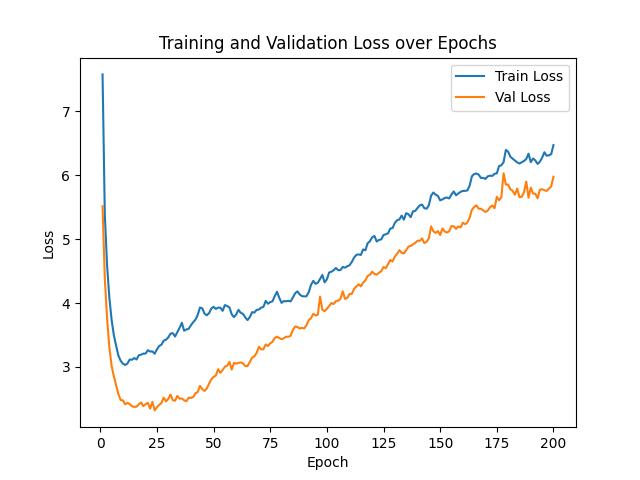
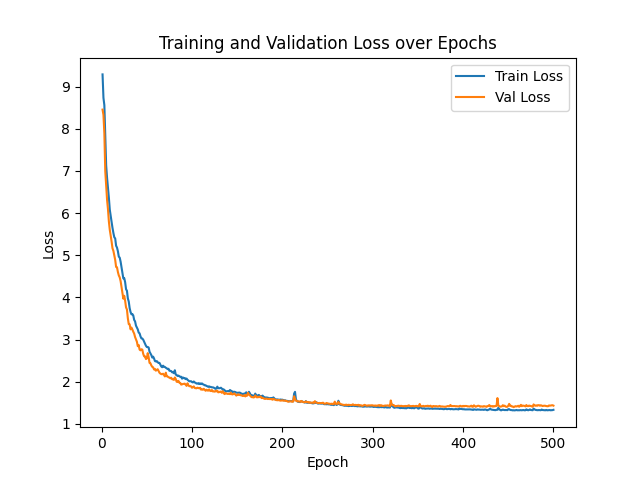
try on vqvae

diff --git a/networks/roomlayout/quant.py b/networks/roomlayout/quant.py
@@ -10,10 +10,10 @@ class TokenSequentializer(nn.Module):
         Implemented with residual-structured blocks.
     '''
     def __init__(self,
-        embed_dim = 128, vocab_size = 512, beta = 0.25,
+        embed_dim = 128, vocab_size = 512, beta = 0.25, ema_decay = 0.99, eps = 1e-5,
         resi_ratio = 0.5,
         share_phi = 1,  # 0: non-shared, 1: shared, 2: partially-shared 
-        use_prior_cluster = False, using_znorm = False,
+        use_prior_cluster = False, using_znorm = False, training = True,
         t_scales = [1, 2, 4, 7, 11]   # + N (last scale is the full resolution)
     ):
         super().__init__()
@@ -39,9 +39,17 @@ class TokenSequentializer(nn.Module):
         self.register_buffer('ema_vocab_hit', torch.full((len(t_scales) + 1, vocab_size),fill_value=0.0))
         self.record_hit = 0
         self.embedding = nn.Embedding(vocab_size, embed_dim)
+        self.register_buffer('cluster_size', torch.zeros(vocab_size))
+        self.register_buffer('embedding_avg', torch.zeros(vocab_size, embed_dim))
+
+        self.embedding.weight.data.normal_()
         self.using_znorm = using_znorm
         self.beta = beta
 
+        self.ema_decay = ema_decay
+        self.eps = eps
+
+        self.training = training
 
         if self.use_prior_cluster:
             # TODO: prior cluster info inject there, explicitly
@@ -50,6 +58,7 @@ class TokenSequentializer(nn.Module):
             # pre-define perceptual length scales
             # model learn itself how to use different-scale token map to describe a scene
             self.t_scales = t_scales
+
 
     # ---------------------- training encoder-decoder only --------------------------#
     def forward(self, feature_map : torch.Tensor, padding_mask = None) -> torch.Tensor:
@@ -84,13 +93,30 @@ class TokenSequentializer(nn.Module):
             for stage_i in range(SN + 1):
                 token_len = self.t_scales[stage_i] if stage_i < SN else N
                 f_down = self.down_resampler(f_rest, M=token_len, padding_mask = mask_cat).reshape(-1,D) if stage_i < SN else f_rest.reshape(-1,D) # B x token_len x D
-                f_down = F.normalize(f_down, dim=-1)
-                idx_N = torch.argmax(f_down @ F.normalize(self.embedding.weight.T, dim=0), dim=1)  # n = B x token_len
+
+                # self.console_log_distribution(f_down)
+
+                dist = (
+                    f_down.pow(2).sum(dim=1, keepdim=True)
+                    - 2 * f_down @ self.embedding.weight.T
+                    + self.embedding.weight.pow(2).sum(dim=1)
+                )  # (B*L, V)
+
+                idx_N = torch.argmin(dist, dim=1)
+                # f_down = F.normalize(f_down, dim=-1)
+
+
+                # idx_N = torch.argmax(f_down @ F.normalize(self.embedding.weight.T, dim=0), dim=1)  # n = B x token_len
+
+                if self.training:
+                    self._ema_update(f_down, idx_N)
 
                 hit_V = idx_N.bincount(minlength=self.vocab_size).float()  # vocab_size ## not user yet
                 
                 idx_BL = idx_N.view(B, token_len)  # B x token_len
                 f_down_hat = self.embedding(idx_BL)  # B x token_len x D
+
+                # self.console_log_distribution(f_down_hat, after_cluster=True)
 
                 f_up = self.up_resampler(f_down_hat, M=N) if stage_i < SN else f_down_hat  # B x N x D
                 # f_down = F.interpolate(f_rest.transpose(1,2), size=token_len, mode = 'linear', align_corners=True).transpose(1,2)  # B x token_len x D
@@ -103,16 +129,65 @@ class TokenSequentializer(nn.Module):
                 f_hat = (f_hat + f_resi).masked_fill(mask_cat.unsqueeze(-1), 0.0)
 
                 # VQ loss
-                mean_vq_loss += F.mse_loss(f_hat.data, feature_map).mul_(self.beta) + F.mse_loss(f_hat, f_no_grad)
+                
+                vocab_hit_V += hit_V
+                mean_vq_loss += F.mse_loss(f_hat.data, feature_map).mul_(self.beta)
             
             mean_vq_loss = mean_vq_loss / (SN + 1)
             f_hat = (f_hat.data-f_no_grad).add_(feature_map)  # straight-through trick
 
             
         
-            return f_hat, mean_vq_loss
+            return f_hat, mean_vq_loss, vocab_hit_V
             
     
+    def _ema_update(self, z_e, idx_N: torch.Tensor):
+        encodings = F.one_hot(idx_N, self.vocab_size).float() # n x V 
+        n_k = encodings.sum(0) # V 
+        m_k = encodings.T @ z_e # V x D
+
+        with torch.no_grad():
+            self.cluster_size.mul_(self.ema_decay).add_(n_k, alpha=1 - self.ema_decay)
+            self.embedding_avg.mul_(self.ema_decay).add_(m_k, alpha=1 - self.ema_decay)
+
+        n = self.cluster_size.sum()
+        cluster_size = ((self.cluster_size + self.eps) /
+                        (n + self.vocab_size * self.eps)) * n
+        self.embedding.weight.data.copy_(
+            self.embedding_avg / cluster_size.unsqueeze(1)
+        )
+
+
+        # with torch.no_grad():
+        #     self.embedding.weight.clamp_(-2.0, 2.0)
+        
+        
+        # unique, counts = idx_N.unique(return_counts=True)
+        # used_codes = unique.numel()
+        # usage_rate = used_codes / float(self.vocab_size)
+        # min_count = int(counts.min().item()) if counts.numel()>0 else 0
+        # max_count = int(counts.max().item()) if counts.numel()>0 else 0
+
+        # # EMA maintained cluster_size
+        # cluster_nonzero = (self.cluster_size > 1e-6).sum().item()
+        # avg_cluster = float(self.cluster_size.mean().item())
+
+        # print(f"[VQ] used {used_codes}/{self.vocab_size} ({usage_rate:.2%}),"
+        #     f" per-batch min/max {min_count}/{max_count},"
+        #     f" cluster_nonzero={cluster_nonzero}, avg_cluster={avg_cluster:.6f}")
+        
+
+        
+    def console_log_distribution(self, z_e, after_cluster = False):
+        z_e_mean = z_e.mean().item()
+        z_e_std = z_e.std().item()
+        z_e_norm = z_e.norm(dim=-1).mean().item()
+        if after_cluster:
+            print("After quant: z_e mean/std/norm:", z_e_mean, z_e_std, z_e_norm)
+            print()
+            return
+        print("Before quant: z_e mean/std/norm:", z_e_mean, z_e_std, z_e_norm)
+
 
 
     # ---------------------- training sar only --------------------------#

diff --git a/train_encoder.py b/train_encoder.py
@@ -40,23 +40,24 @@ def train_model(
         train_loss = 0
         train_vq_loss = 0
         train_recon_loss = 0
-
+        train_vq_vocab_hits = torch.zeros(model.token_sequentializer.vocab_size, device=device)
 
         for batch in tqdm(train_loader, desc=f"Epoch {epoch+1}/{num_epochs} [Train]"):
             # room_type = batch['room_type'].to(device)
-            room_shape = batch['room_shape'].to(device)
+            # room_shape = batch['room_shape'].to(device)
             obj_tokens = batch['obj_tokens'].to(device)
             # print(obj_tokens.shape)
             attention_mask = batch['attention_mask'].to(device)
 
             optimizer.zero_grad()
-            root, recon, vq_loss, _ = model(obj_tokens, padding_mask=attention_mask)
+            root, recon, vq_loss, vocab_hits = model(obj_tokens, padding_mask=attention_mask)
             recon_loss, bond_losses = criterion(recon, obj_tokens, attention_mask)
 
             loss = recon_loss + beta * vq_loss
             loss.backward()
             optimizer.step()
 
+            train_vq_vocab_hits += vocab_hits
             train_loss += loss.item()
             train_vq_loss += vq_loss.item()
             train_recon_loss += recon_loss.item()
@@ -66,26 +67,33 @@ def train_model(
         avg_train_recon = train_recon_loss / len(train_loader)
         train_loss_recoder.append(avg_train_loss)
 
+        train_used_codes = (train_vq_vocab_hits > 0).sum().item()
+        train_usage_rate = train_used_codes / model.token_sequentializer.vocab_size
+
         print(f"[Train] Epoch {epoch+1}: Loss={avg_train_loss:.4f}, Recon={avg_train_recon:.4f}, VQ={avg_train_vq:.4f}")
         if configs['model']['bottleneck'] == 'vqvae':
             print(f" VQ Usage Rate: {model.quantizer.last_usage_rate*100:.2f}%, Unique Codes: {len(model.quantizer.last_unique_codes) if model.quantizer.last_unique_codes is not None else 0}")
+
+        elif configs['model']['bottleneck'] == 'residual-vae':
+            print(f" VQ Usage Rate: {train_usage_rate*100:.2f}%, Unique Codes: {train_used_codes}")
 
         # ----- VALIDATION -----
         model.eval()
         val_loss = 0
         val_vq_loss = 0
         val_recon_loss = 0
+        val_vq_vocab_hits = torch.zeros(model.token_sequentializer.vocab_size, device=device)
 
         with torch.no_grad():
             for batch in tqdm(val_loader, desc=f"Epoch {epoch+1}/{num_epochs} [Val]"):
                 # room_type = batch['room_type'].to(device)
-                room_shape = batch['room_shape'].to(device)
+                # room_shape = batch['room_shape'].to(device)
                 obj_tokens = batch['obj_tokens'].to(device) # [B, maxN, T]
                 attention_mask = batch['attention_mask'].to(device)
 
                 
 
-                root, recon, vq_loss, _ = model(obj_tokens, padding_mask=attention_mask)
+                root, recon, vq_loss, vocab_hits = model(obj_tokens, padding_mask=attention_mask)
                 recon_loss, bond_losses = criterion(recon, obj_tokens, attention_mask)
 
                 loss = recon_loss + beta * vq_loss
@@ -93,26 +101,35 @@ def train_model(
                 val_loss += loss.item()
                 val_vq_loss += vq_loss.item()
                 val_recon_loss += recon_loss.item()
+                val_vq_vocab_hits += vocab_hits
 
         avg_val_loss = val_loss / len(val_loader)
         avg_val_vq = val_vq_loss / len(val_loader)
         avg_val_recon = val_recon_loss / len(val_loader)
         val_loss_recoder.append(avg_val_loss)
+        val_used_codes = (val_vq_vocab_hits > 0).sum().item()
+        val_usage_rate = val_used_codes / model.token_sequentializer.vocab_size
+
+
         wandb.log({
-            'Train Loss': avg_train_recon,
-            'Val Loss': avg_val_recon,
+            'Train Recon Loss': avg_train_recon,
+            'Val Recon Loss': avg_val_recon,
             'VQ Train Loss': avg_train_vq,
-            'VQ Val Loss': avg_val_vq
+            'VQ Val Loss': avg_val_vq,
+            'Train VQ Usage Rate': train_usage_rate,
+            'Val VQ Usage Rate': val_usage_rate
         })
         print(f"[Val] Epoch {epoch+1}: Loss={avg_val_loss:.4f}, Recon={avg_val_recon:.4f}, VQ={avg_val_vq:.4f}")
         if configs['model']['bottleneck'] == 'vqvae':
             print(f" VQ Usage Rate: {model.quantizer.last_usage_rate*100:.2f}%, Unique Codes: {len(model.quantizer.last_unique_codes) if model.quantizer.last_unique_codes is not None else 0}")
-       
+        elif configs['model']['bottleneck'] == 'residual-vae':
+            print(f" VQ Usage Rate: {val_usage_rate*100:.2f}%, Unique Codes: {val_used_codes}")
+
         # Save best model
-        if avg_val_loss < best_val_loss:
-            best_val_loss = avg_val_loss
+        if avg_val_recon < best_val_loss:
+            best_val_loss = avg_val_recon
             torch.save(model.state_dict(), save_path)
-            print(f"Best model saved at epoch {epoch+1} with val_loss={best_val_loss:.4f}")
+            print(f"Best model saved at epoch {epoch+1} with recon_loss={best_val_loss:.4f}")
         print()
 
     
@@ -138,7 +155,7 @@ if __name__ == '__main__':
     BATCH_SIZE = int(super_parameters.get('batch_size', 16))
     NUM_EPOCHS = int(super_parameters.get('epochs', 200))
     LEARNING_RATE = float(super_parameters.get('learning_rate', 1e-4))
-    VQ_BETA = float(super_parameters.get('vq_beta', 0.25))
+
 
     model_config = config['model']
 
@@ -146,6 +163,8 @@ if __name__ == '__main__':
     DECODER_DEPTH = int(model_config.get('decoder_depth', 4))
     HEADS = int(model_config.get('num_heads', 4))
     NUM_EMBEDDINGS =  int(model_config.get('num_embeddings', 512))
+    VQ_BETA = float(model_config['quant']['vq_beta'])
+
 
     save_config = config.get('save', {})
     save_folder = save_config.get('save_folder',"./pretrained/roomautoencoders/")

diff --git a/networks/roomlayout/RoomLayoutAutoRegressiveNet.py b/networks/roomlayout/RoomLayoutAutoRegressiveNet.py
@@ -2,9 +2,19 @@ import torch
 import torch.nn as nn
 import torch.nn.functional as F
 from transformers import BertModel, BertTokenizer
+from .RoomLayoutVQVAE import RoomLayoutVQVAE
+from .quant import TokenSequentializer
+import math
 
 class RoomLayoutAutoRegressiveNet(nn.Module):
-    def __init__(self, feature_extractor, config):
+    def __init__(self, 
+                vae_local: RoomLayoutVQVAE,
+                feature_extractor, 
+                config,
+                depth = 16, embed_dim = 128, num_heads = 16, mlp_ratio=4., drop_rate=0., attn_drop_rate=0., drop_path_rate=0.,
+                t_scales = [1, 2, 4, 7, 11],
+                use_prior_cluster = False
+        ):
         super().__init__()
 
         ####### General Settings #######
@@ -37,3 +47,38 @@ class RoomLayoutAutoRegressiveNet(nn.Module):
 
         ######## Auto-Regressive Model Settings ########
 
+        # basic settings (parameters)
+        self.vae_embedding_dim = vae_local.token_dim
+        self.depth, self.C, self.D, self.num_heads = depth, embed_dim, embed_dim, num_heads
+        self.t_scales = t_scales
+        self.L = sum(t_len for t_len in self.t_scales)
+
+        self.first_len = self.t_scales[0]
+        self.begin_ends = []
+        cur = 0
+        for t_len in self.t_scales:
+            self.begin_ends.append((cur, cur + t_len))
+            cur += t_len
+
+        self.vae:RoomLayoutVQVAE = vae_local
+        self.vae_token_sequentializer: TokenSequentializer = vae_local.token_sequentializer
+
+        self.in_embedding = nn.Linear(self.vae_embedding_dim, self.C)
+        self.out_embedding=nn.Linear(self.C, self.vae_embedding_dim)
+
+        init_std = math.sqrt(1 / self.C / 2)
+
+        # position embedding
+        pos_1LC = []
+        for t_len in self.t_scales:
+            pe = torch.empty(1, t_len, self.C)
+            nn.init.trunc_normal_(pe, mean=0,std=init_std)
+            pos_1LC.append(pe)
+        pos_1LC =torch.cat(pos_1LC,dim=1)
+        self.pos_1LC = nn.Parameter(pos_1LC)
+        self.level_embedding = nn.Embedding(len(t_scales), self.C)
+        nn.init.trunc_normal_(self.level_embedding.weight.data, mean=0, std=init_std)
+
+
+        # ar blocks
+        

diff --git a/networks/roomlayout/RoomLayoutVQVAE.py b/networks/roomlayout/RoomLayoutVQVAE.py
@@ -98,9 +98,10 @@ class RoomLayoutVQVAE(nn.Module):
         self.encoder = SceneLayoutTokenEncoder(token_dim, depth=enc_depth, heads=heads)
         self.quantizer = VectorQuantizer(num_embeddings, token_dim)
 
-        self.token_sequentializer = TokenSequentializer(embed_dim=token_dim, vocab_size=num_embeddings, resi_ratio=0.5, share_phi=1, use_prior_cluster=False)
+        self.token_sequentializer = TokenSequentializer(embed_dim=token_dim, vocab_size=num_embeddings, resi_ratio=0.5, share_phi=1, ema_decay=float(configs['model']['quant']['ema_decay']), use_prior_cluster=False)
         self.decoder = SceneLayoutTokenDecoder(token_dim, depth=dec_depth, heads=heads)
         self.configs = configs
+        self.token_dim = token_dim
 
 
     def forward(self, x, padding_mask=None):  # x: [B, N, D], mask: [B, N]
@@ -112,8 +113,8 @@ class RoomLayoutVQVAE(nn.Module):
         elif self.configs['model']['bottleneck'] == 'vqvae':
             z_q, vq_loss, indices = self.quantizer(z) # B, N+1, D   
         elif self.configs['model']['bottleneck'] == 'residual-vae':
-            z_q, vq_loss = self.token_sequentializer(z, padding_mask=padding_mask)
-            indices = None
+            z_q, vq_loss, vocab_hits = self.token_sequentializer(z, padding_mask=padding_mask)
+            indices = vocab_hits
         else:
             raise NotImplementedError(f"Unknown bottleneck type: {self.configs['model']['bottleneck']}")
 

diff --git a/test_vis.py b/test_vis.py
@@ -75,14 +75,14 @@ def main():
             decoded_raw  = decode_obj_tokens_with_mask(denormalized_obj_tokens, attention_mask)
             test_scene_jsons = pack_scene_json(decoded_recon,room_name)
             for i, scene_json in enumerate(test_scene_jsons):
-                save_path = os.path.join(f'./visualizations/scene', f'{room_name[i]}_recon.json')
+                save_path = os.path.join(f'./visualizations/exp{args.exp}/scene', f'{room_name[i]}_recon.json')
                 os.makedirs(os.path.dirname(save_path), exist_ok=True)
                 with open(save_path, 'w') as f:
                     import json
                     json.dump(scene_json, f, indent=4)
                 # print(f'Saved reconstructed scene JSON to {save_path}')
             # 这里调用可视化函数，可以传入输入和输出
-            visualize_result(decoded_recon, raw_data=decoded_raw, room_name=room_name, save_dir=f'./visualizations/topdown')
+            visualize_result(decoded_recon, raw_data=decoded_raw, room_name=room_name, save_dir=f'./visualizations/exp{args.exp}/topdown')
 
             print(f"Processed batch {batch_idx+1}/{len(test_loader)}")
 

diff --git a/config.py b/config.py
@@ -3,6 +3,7 @@ import argparse
 def parse_arguments():
     parser = argparse.ArgumentParser()
     parser.add_argument('--config', type=str, default='./training_configs/residual_config.yaml', help='Path to the config file')
+    parser.add_argument('--exp', type=int, default=0)
     args = parser.parse_args()
     return args
 
